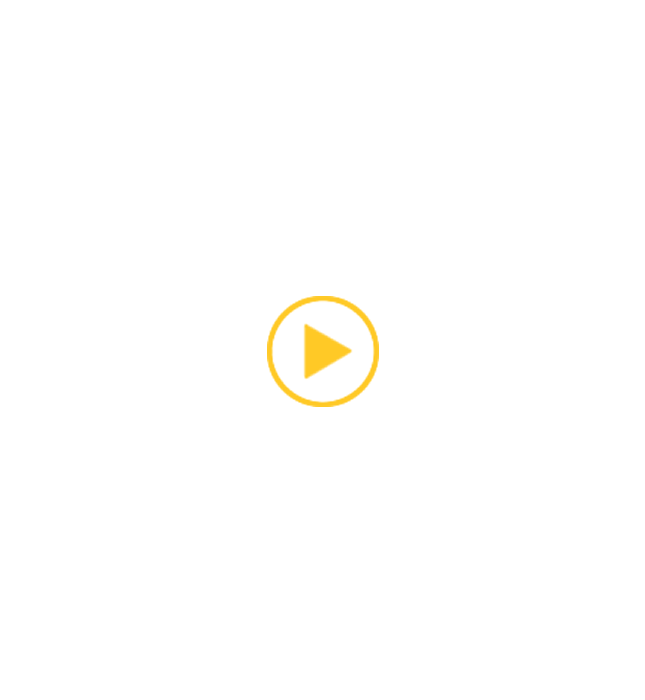
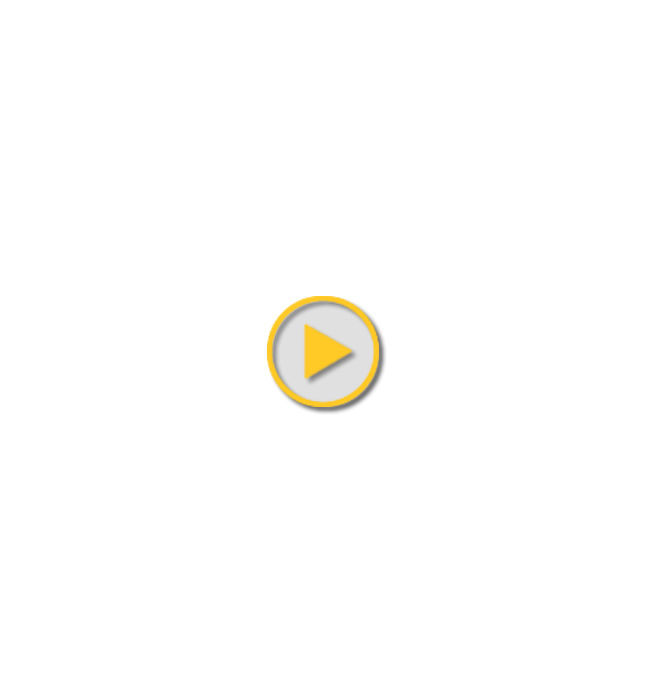
small style updates

Changed region(s): [[0.4031, 0.42, 0.6202, 0.6]]

diff --git a/styles/site.css b/styles/site.css
@@ -203,10 +203,11 @@ a { //suppressing the -webkit-tap-highlight-color
 /* line 129, ../scss/partials/_primary.scss */
 .btn-ghost {
   background-color: transparent;
+  background-color: rgba(0, 0, 0, 0.5);
   border: 1px solid #fff;
   color: #fff;
 }
-/* line 134, ../scss/partials/_primary.scss */
+/* line 135, ../scss/partials/_primary.scss */
 .btn-ghost:hover {
   border: 1px solid #333;
 }

diff --git a/scss/partials/_primary.scss b/scss/partials/_primary.scss
@@ -128,6 +128,7 @@
 
 .btn-ghost {
     background-color: transparent;
+    background-color: rgba(0,0,0,0.5);
     border: 1px solid #fff;
     color: #fff;
     
